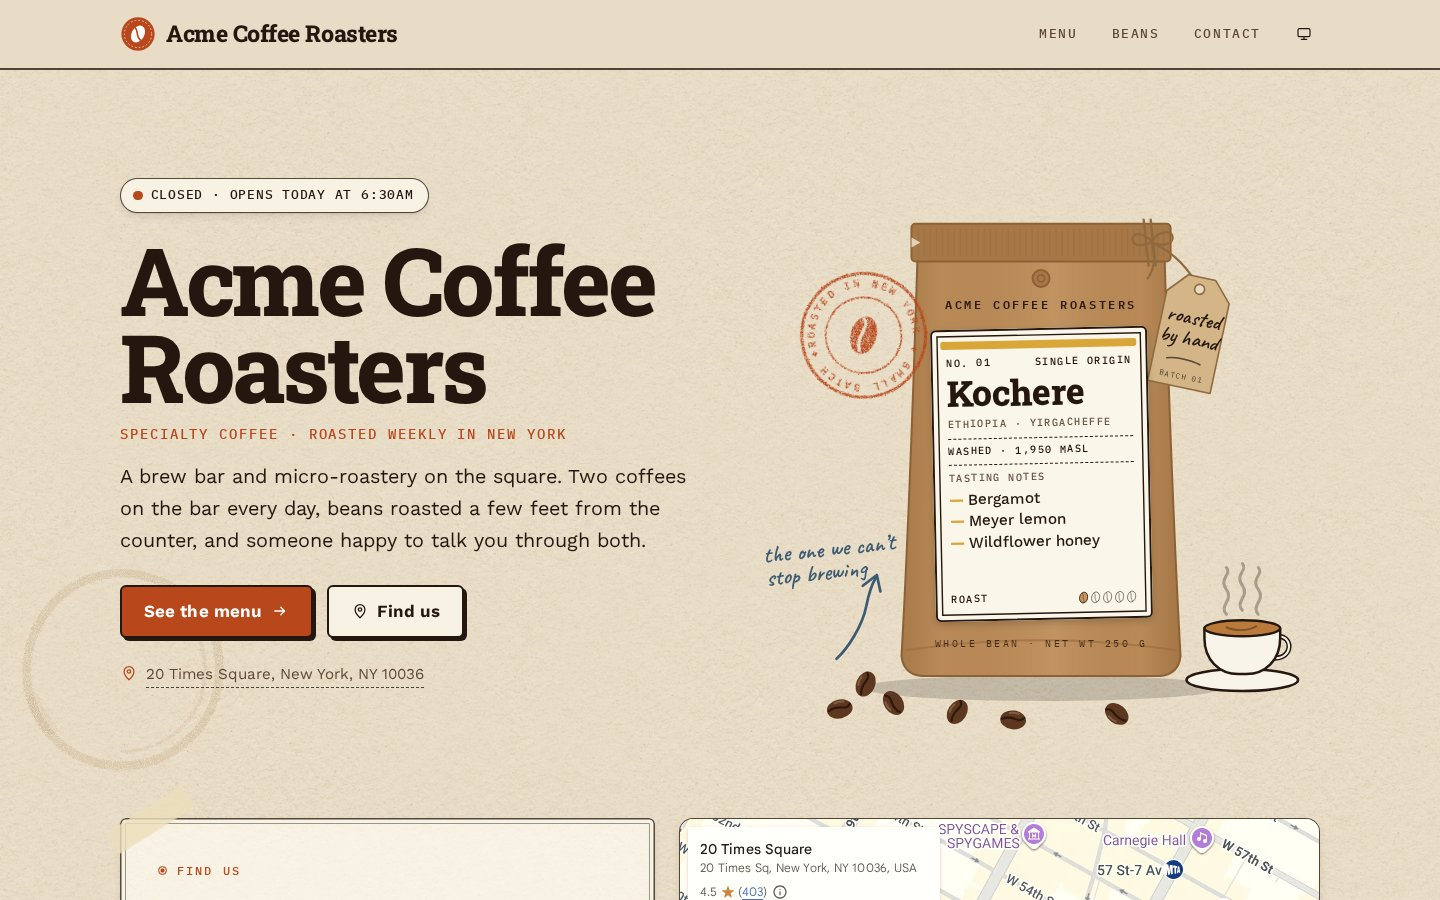
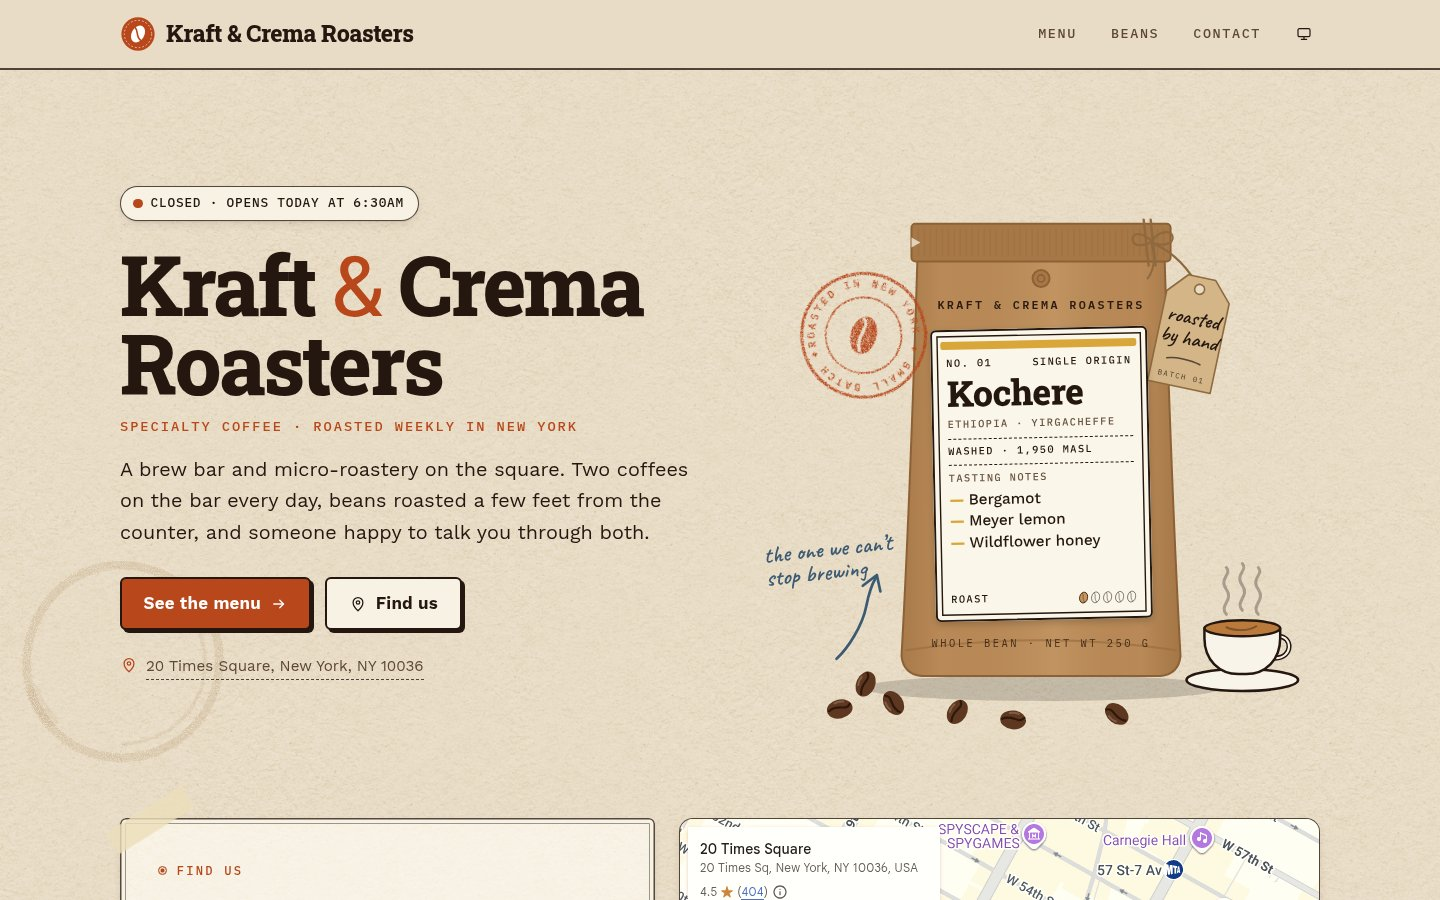
Update branding

diff --git a/app/page.tsx b/app/page.tsx
@@ -37,7 +37,10 @@ export default function HomePage() {
             <CoffeeRing className="absolute -bottom-24 -left-28 -z-10 max-sm:hidden" size={230} />
             <OpenBadge />
             <h1 id="hero-title" className="mt-6 mb-5 grid gap-4">
-              <span className="text-[clamp(3rem,7.6vw,5.9rem)] leading-[.92] font-extrabold tracking-[-.035em]">{cafe.name}</span>
+              <span className="text-[clamp(2.9rem,6.6vw,5.2rem)] leading-[.95] font-extrabold tracking-[-.035em]">
+                {/* An ampersand in the name is set in the accent colour, like a printed logotype. */}
+                {cafe.name.split(/(&)/).map((part, index) => part === '&' ? <span key={index} className="font-normal text-accent">&amp;</span> : part)}
+              </span>
               <span className="label-text text-[clamp(.74rem,1.2vw,.86rem)] font-medium text-accent">{cafe.tagline}</span>
             </h1>
             <p className="max-w-xl text-[clamp(1.08rem,1.6vw,1.24rem)]">{cafe.introduction}</p>
@@ -203,7 +206,7 @@ export default function HomePage() {
 
         <figure className="label relative rotate-[.6deg] p-6 lg:sticky lg:top-[calc(var(--header-h)+1.5rem)]">
           <span className="tape -top-3 left-1/2 -translate-x-1/2 -rotate-2" aria-hidden="true" />
-          <CoffeeRing className="absolute -right-3 -bottom-12 z-10 sm:-right-10" size={150} />
+          <CoffeeRing className="absolute -right-3 -bottom-12 z-10 lg:-right-10" size={150} />
           <div className="flex items-start justify-between gap-4 border-b-2 border-rule pb-4">
             <div>
               <p className="label-text text-[.68rem] text-muted">{cafe.name}</p>

diff --git a/components/hero-bag.tsx b/components/hero-bag.tsx
@@ -29,6 +29,9 @@ export function HeroBag() {
   const bean = featuredBean;
   const number = String(beans.indexOf(bean) + 1).padStart(2, '0');
   const summary = `${cafe.name} coffee bag. Featured coffee: ${bean.name}, ${bean.country}, ${PROCESSES[bean.process].label.toLowerCase()} process, tasting of ${bean.notes.map(note => note.note.toLowerCase()).join(', ')}.`;
+  // The name is printed across the bag: shrink the type for longer names so it clears the twine.
+  const brand = cafe.name.toUpperCase();
+  const brandSize = Math.min(12.5, 208 / (brand.length * 0.8));
   const stampText = `Roasted in ${cafe.address.locality} ✦ Small batch ✦ `.toUpperCase();
 
   return (
@@ -57,8 +60,8 @@ export function HeroBag() {
         <path d="M150 108l9 5-9 5" fill="var(--bg)" opacity=".9" />
         <circle cx="280" cy="149" r="8.5" fill="var(--bag-seal)" stroke="var(--bag-edge)" strokeWidth="2" />
         <circle cx="280" cy="149" r="3.6" fill="none" stroke="var(--bag-edge)" strokeWidth="1.6" />
-        <text x="280" y="180" textAnchor="middle" fill="var(--bag-print)" fontFamily="var(--font-mono)" fontSize="12.5" fontWeight="600" letterSpacing="2.6">
-          {cafe.name.toUpperCase()}
+        <text x="280" y="180" textAnchor="middle" fill="var(--bag-print)" fontFamily="var(--font-mono)" fontSize={brandSize} fontWeight="600" letterSpacing={brandSize * .2}>
+          {brand}
         </text>
         {/* Twine tied round the seal, with a kraft hang tag */}
         <g fill="none" stroke="var(--twine)" strokeLinecap="round">

diff --git a/content/cafe.ts b/content/cafe.ts
@@ -78,12 +78,12 @@ export interface Cafe {
 }
 
 export const cafe: Cafe = {
-  name: 'Acme Coffee Roasters',
+  name: 'Kraft & Crema Roasters',
   tagline: 'Specialty coffee · roasted weekly in New York',
   introduction:
     'A brew bar and micro-roastery on the square. Two coffees on the bar every day, beans roasted a few feet from the counter, and someone happy to talk you through both.',
   story: [
-    'Acme started as a 5-kilo roaster in a borrowed corner and a list of farms we wanted to taste. The roaster is bigger now, but the idea hasn’t changed: buy great green coffee, roast it carefully, and brew it the way it wants to be brewed.',
+    'Kraft & Crema started as a 5-kilo roaster in a borrowed corner and a list of farms we wanted to taste. The roaster is bigger now, but the idea hasn’t changed: buy great green coffee, roast it carefully, and brew it the way it wants to be brewed.',
     'We roast every Tuesday and Friday, cup every batch before it reaches the bar, and keep the menu short so each coffee gets the attention it deserves. Ask for a taste of anything on the shelf.',
   ],
   email: 'hello@example.com',

diff --git a/lib/site.ts b/lib/site.ts
@@ -1,7 +1,7 @@
 // Public values resolved by lib/config.mjs and substituted by Next.js at build time.
 // No runtime configuration API is needed to render the website.
 export const site = {
-  name: process.env.NEXT_PUBLIC_SITE_NAME ?? 'Acme Coffee Roasters',
+  name: process.env.NEXT_PUBLIC_SITE_NAME ?? 'Kraft & Crema Roasters',
   description: process.env.NEXT_PUBLIC_SITE_DESCRIPTION ?? '',
   domain: process.env.NEXT_PUBLIC_SITE_DOMAIN ?? '',
   /** IANA time zone for opening hours (site.config.json `timeZone`), or '' when not set. */

diff --git a/app/tailwind.input.css b/app/tailwind.input.css
@@ -1,4 +1,4 @@
-/* Acme Coffee Roasters styles: Tailwind CSS v4 plus this template's customizations.
+/* Kraft & Crema Roasters styles: Tailwind CSS v4 plus this template's customizations.
    Components use Tailwind utility classes; this file holds what utilities can't:
    1. colour tokens for light/dark   2. the Tailwind theme built from them
    3. base element styles           4. shared building blocks (.button, .label, .stamp, ...)

diff --git a/README.md b/README.md
@@ -1,10 +1,10 @@
-# Acme Coffee Roasters: Craft café (Next.js)
+# Kraft & Crema Roasters: Craft café (Next.js)
 
 A specialty coffee theme for cafés and roasteries: single-origin profiles with tasting notes, brew methods, beans to take home, opening hours, location and a [Jamstacks](https://jamstacks.net) contact component for wholesale and cupping enquiries.
 
 It exports to plain static files, deploys to GitHub Pages (custom domain or `/repository/` path) and works with no backend. Light mode is **kraft**: paper-bag brown, cream labels and espresso ink. Dark mode is **espresso**: dark roast surfaces with crema gold. Both follow the visitor's device unless they pick one with the header toggle.
 
-**Acme Coffee Roasters**, its coffees, producers, menu and contact details are fictitious placeholders. Coffee regions, processes and varieties are real, but producers are described generically. The sample address is a public landmark, 20 Times Square in New York, so the map has something real to show. Replace all of it with your own.
+**Kraft & Crema Roasters**, its coffees, producers, menu and contact details are fictitious placeholders. Coffee regions, processes and varieties are real, but producers are described generically. The sample address is a public landmark, 20 Times Square in New York, so the map has something real to show. Replace all of it with your own.
 
 ## Pages
 
@@ -142,7 +142,7 @@ The footer ends with "with ❤ [jamstacks.net](https://jamstacks.net)". It's 
 
 ```json
 {
-  "name": "Acme Coffee Roasters",
+  "name": "Kraft & Crema Roasters",
   "description": "Specialty coffee and a micro-roastery in Midtown Manhattan. …",
   "domain": "",
   "timeZone": "America/New_York",
@@ -245,7 +245,7 @@ jamstacks/            optional template publishing metadata and gallery captures
 
 ## Before publishing your website
 
-- Replace Acme Coffee Roasters, the address (and its `note`), directions, email, phone, coffees, producers, prices, menu, FAQs and social links with your own details.
+- Replace Kraft & Crema Roasters, the address (and its `note`), directions, email, phone, coffees, producers, prices, menu, FAQs and social links with your own details.
 - Set what's on the bar today and your featured coffee.
 - Set your real opening hours and `timeZone` in `site.config.json`, and check the "open now" badge.
 - Update the site title/description, icon and social preview image. Set the correct public domain or Pages URL.
